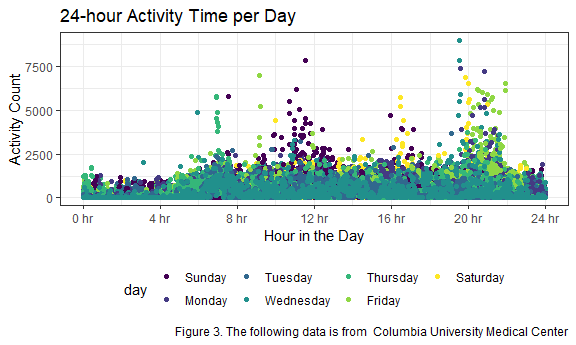
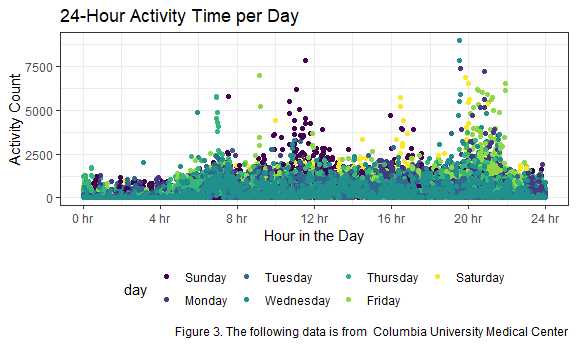
finished problem 3 and edited formatting

Changed region(s): [[0.125, 0.029, 0.5312, 0.087]]

diff --git a/p8105_hw3_ew2717.md b/p8105_hw3_ew2717.md
@@ -38,7 +38,7 @@ scale_fill_discrete = scale_fill_viridis_d
 
 ## Problem 1
 
-#### Loading instacart data
+*Loading instacart data*
 
 ``` r
 data("instacart")
@@ -50,7 +50,7 @@ instacart_df <-
 
 #### Instacart data exploration
 
-###### Finding rows, columns, and key variables.
+*Finding rows, columns, and key variables*
 
 ``` r
 instacart_rows = instacart_df %>% 
@@ -68,7 +68,8 @@ reordered, user\_id, eval\_set, order\_number, order\_dow,
 order\_hour\_of\_day, days\_since\_prior\_order, product\_name,
 aisle\_id, department\_id, aisle, department**.
 
-###### Finding how many aisles there are and which aisles are the most items ordered from
+*Finding how many aisles there are and which aisles are the most items
+ordered from*
 
 ``` r
 instacart_aisles <- 
@@ -99,7 +100,9 @@ As seen above, there are 134 aisles, and the aisles that have the most
 items ordered from are the “fresh vegetables”, “fresh fruits”, “packaged
 vegetable fruits”, “yogurt”, and “packaged cheese”.
 
-###### Creating a table showing the three most popular items in each of the aisles “baking ingredients”, “dog food care”, and “packaged vegetables fruits”, including the number of times each item is ordered
+*Creating a table showing the three most popular items in each of the
+aisles “baking ingredients”, “dog food care”, and “packaged vegetables
+fruits”, including the number of times each item is ordered*
 
 ``` r
 aisle_table <- 
@@ -124,9 +127,9 @@ aisle_table
 
 <img src="p8105_hw3_ew2717_files/figure-gfm/aisle table-1.png" width="90%" />
 
-###### Making a table showing the three most popular items in each of the aisles “baking ingredients”, “dog food care”, and “packaged vegetables fruits”, including the number of times each item is ordered
-
-### Table of three most popular items in each of the aisles “baking ingredients”, “dog food care”, “packaged vegetables fruits”
+*Making a table showing the three most popular items in each of the
+aisles “baking ingredients”, “dog food care”, and “packaged vegetables
+fruits”, including the number of times each item is ordered*
 
 ``` r
 popular_table <- 
@@ -154,13 +157,13 @@ knitr::kable(popular_table)
 
 ## PROBLEM 2
 
-#### Loading BRFSS dataset from p8105.datasets
+*Loading BRFSS dataset*
 
 ``` r
 data("brfss_smart2010")
 ```
 
-#### Cleaning brfss data set
+*Cleaning brfss data set*
 
 ``` r
 brfss_df <- 
@@ -174,7 +177,8 @@ brfss_df <-
   separate(locationdesc, into = c("State", "County"), sep = " - ")
 ```
 
-###### Finding which states were observed at 7 or more locations in 2002 and 2010
+*Finding which states were observed at 7 or more locations in 2002 and
+2010*
 
 ``` r
 brfss_df_02 <- 
@@ -232,7 +236,9 @@ As the tables depict, CT, FL, NC, MA, NJ, and PA were observed at 7 or
 more locations in 2002, and CA, CO, FL, MA, MD, NC, NE, NJ, NY, OH, PA,
 SC, TX, and WA were observed at 7 or more locations in 2010.
 
-###### Constructing a dataset that is limited to Excellent responses, and contains, year, state, and a variable that averages the data\_value across locations within a state.
+*Constructing a dataset that is limited to Excellent responses, and
+contains, year, state, and a variable that averages the data\_value
+across locations within a state*
 
 ``` r
 brfss_excellent_df <-
@@ -244,7 +250,7 @@ brfss_excellent_df <-
   select(year, State, avg_data_value) 
 ```
 
-###### Making a spaghetti plot of this average value over time within a state
+*Making a spaghetti plot of this average value over time within a state*
 
 ``` r
 brfss_df %>% 
@@ -265,7 +271,11 @@ brfss_df %>%
 
 <img src="p8105_hw3_ew2717_files/figure-gfm/spaghetti plot-1.png" width="90%" />
 
-###### Making a two-panel plot showing the distribution of data\_value for responses among locations in NY State for the years 2006 and 2010
+This spaghetti plot shows that the average data\_value across locations
+within states seem to cary greatly every single year, from 2002 to 2010.
+
+*Making a two-panel plot showing the distribution of data\_value for
+responses among locations in NY State for the years 2006 and 2010*
 
 ``` r
 brfss_df %>%
@@ -285,7 +295,7 @@ labs(
 
 ## Problem 3
 
-###### Loading the original data set
+*Loading original accel data set*
 
 ``` r
 accel_df <- 
@@ -304,7 +314,7 @@ accel_df <-
     ## i Use `spec()` to retrieve the full column specification for this data.
     ## i Specify the column types or set `show_col_types = FALSE` to quiet this message.
 
-###### Tidying data set
+*Tidying data set*
 
 ``` r
 accel_tidy <-
@@ -326,7 +336,7 @@ accel_tidy <-
            day %in% c("Saturday", "Sunday") ~ "Weekend")) 
 ```
 
-###### Analyzing accelerometer data
+*Analyzing accelerometer data*
 
 ``` r
 accel_var = accel_tidy %>% 
@@ -344,7 +354,8 @@ This data set was tidied, and we found that its key variables are
 weekday\_vs\_weekend**. Additionally, the dimensions are **50400, 7**,
 the number of columns are **7**, and the number of rows are **50400**.
 
-###### Creating a table that shows total activity count for each day of the week
+*Creating a table that shows total activity count for each day of the
+week*
 
 ``` r
 accel_tidy %>%
@@ -369,10 +380,11 @@ Figure 2. Total Activity Count per Day
 
 One apparent trend seen from the table is that activity count is
 noticeably higher towards the end of the week, from Wednesday to Friday.
-Saturday can be assumed to be a rest day, as it is significantly lower
-in total activity compared to the rest of the days.
+Additionally, Saturday can be assumed to be a rest day, as it is
+significantly lower in total activity compared to the rest of the days.
 
-###### Making a single-panel plot that depicts 24-hour activity time courses for every day
+*Making a single-panel plot that depicts 24-hour activity time courses
+for every day*
 
 ``` r
 accel_tidy %>%
@@ -382,7 +394,7 @@ accel_tidy %>%
              color = day)) +
   geom_point() +
   labs(
-    title = "24-hour Activity Time per Day",
+    title = "24-Hour Activity Time per Day",
     x = "Hour in the Day",
     y = "Activity Count",
     caption = "Figure 3. The following data is from  Columbia University Medical Center") + 
